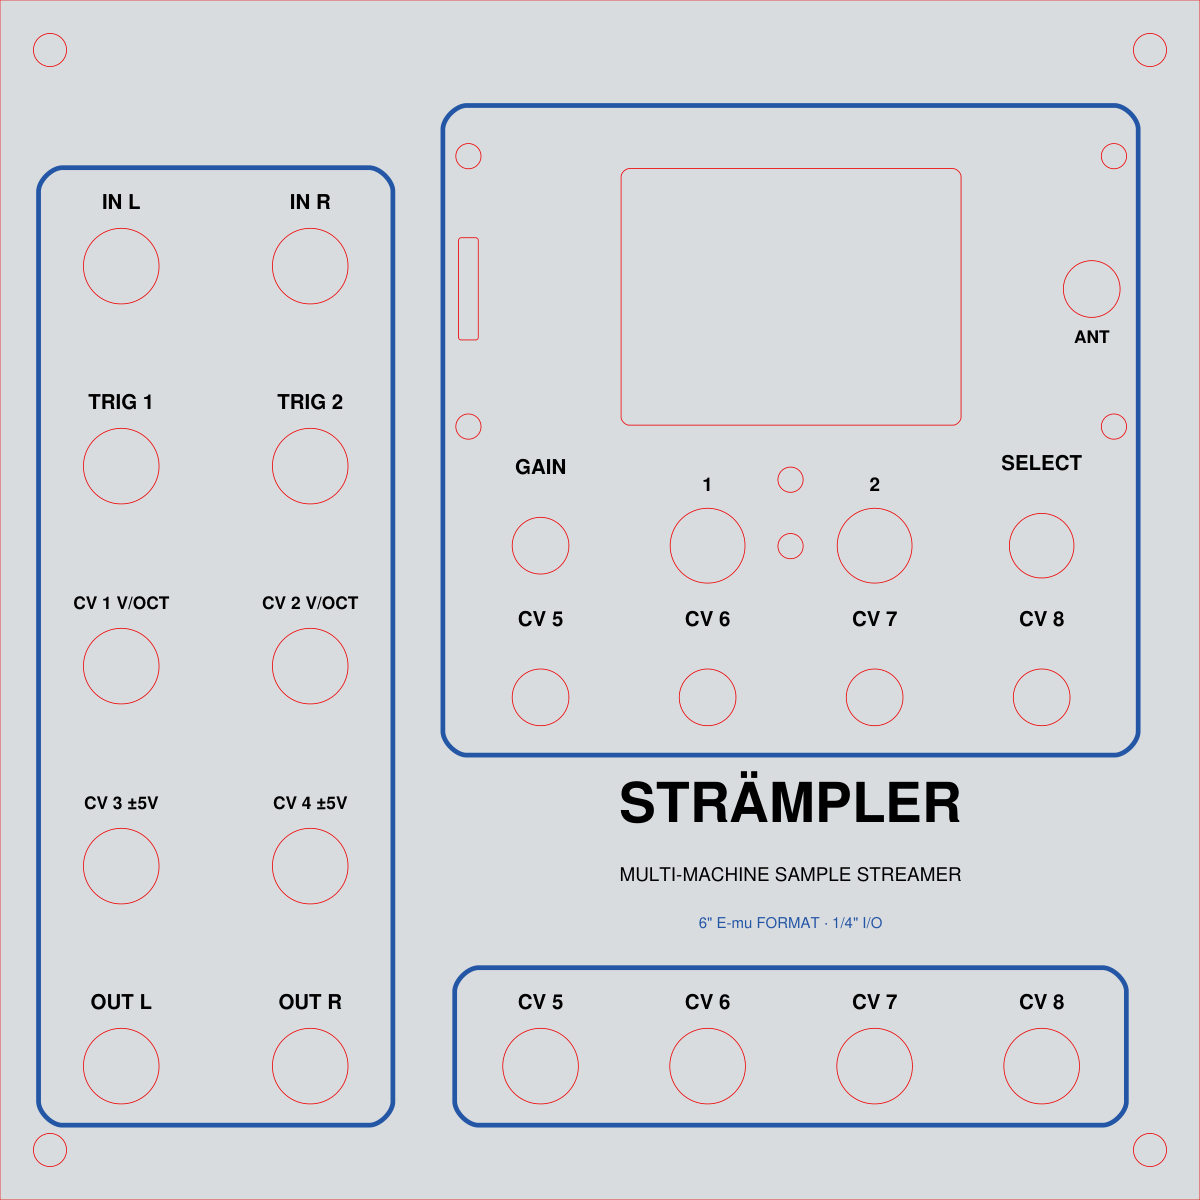
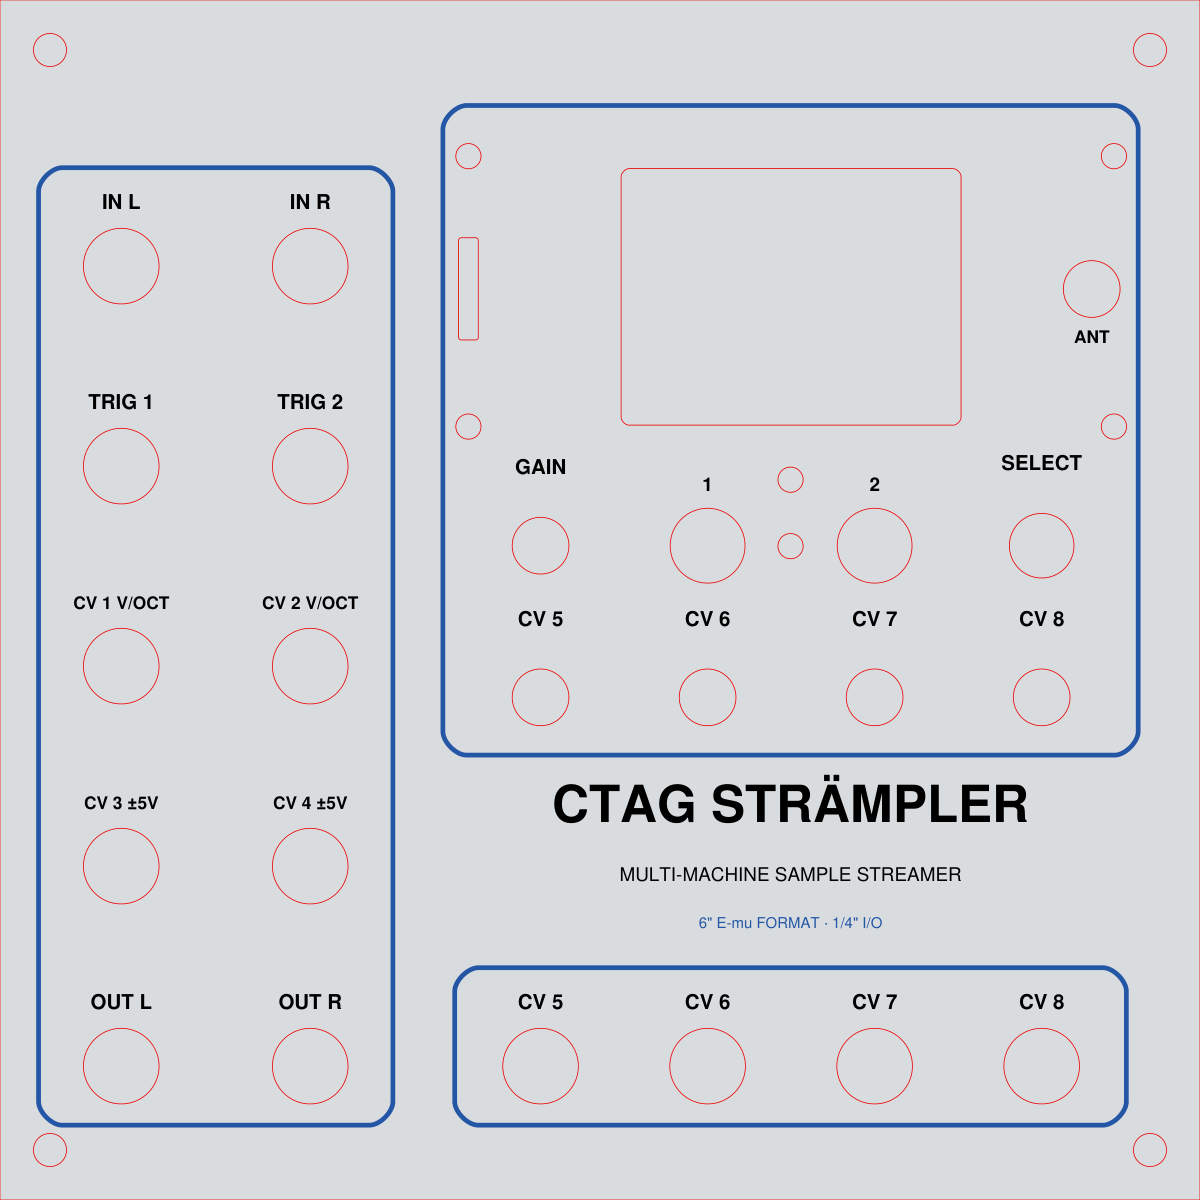
panel-emu: wordmark reads CTAG STRÄMPLER
Claude-Session: https://claude.ai/code/session_01KnGMUq9B8Y9jJAKBbBJVhF

Changed region(s): [[0.4625, 0.6475, 0.8633, 0.7092]]

diff --git a/panel-emu/gen_emu_panel.py b/panel-emu/gen_emu_panel.py
@@ -127,7 +127,7 @@ for lab, ref, xs, y in jack_positions():
 art_box(bx + 1.5, by + 38.5, bx + 89.8, by + 121.0, r=3.0)   # display, SD, ANT, pots, buttons, LED
 art_box(bx + 3.0, JACK_ROW0 - 7.5, bx + 88.3, JACK_ROW0 + 12.5, r=3.0)   # CV 5-8 row (bottom clears the corner mount holes)
 wx = bx + 91.3/2
-text(wx, by + 30.0, "STRÄMPLER", 7.0)
+text(wx, by + 30.0, "CTAG STRÄMPLER", 6.5)
 text(wx, by + 22.5, "MULTI-MACHINE SAMPLE STREAMER", 2.4, weight="normal")
 text(wx, by + 16.5, "6\" E-mu FORMAT · 1/4\" I/O", 1.9, weight="normal", color=BLUE)
 fx0, fx1 = JACK_COLS[0] - 10.5, JACK_COLS[1] + 10.5
